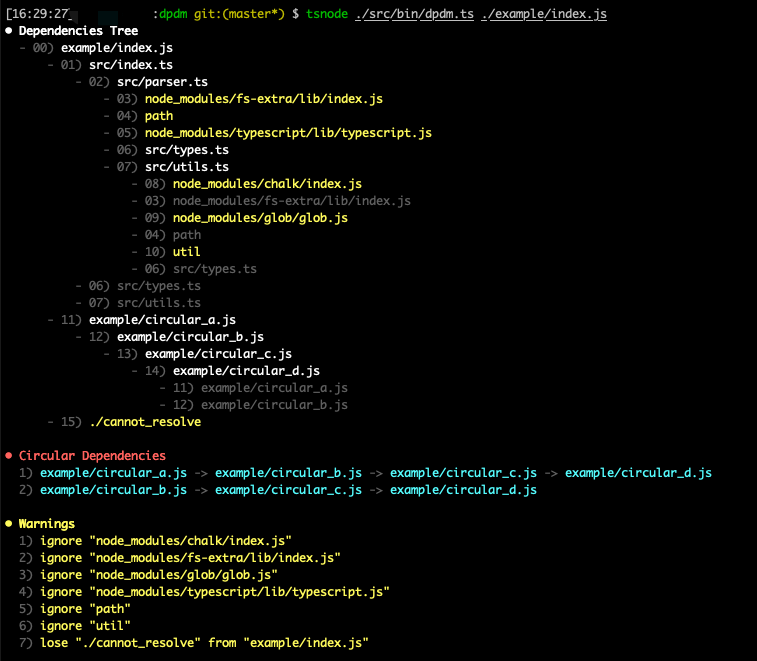
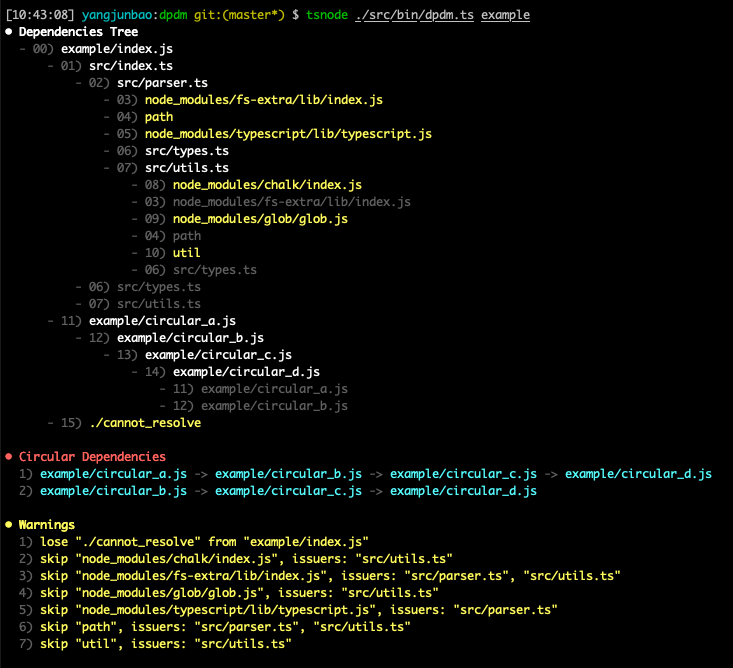
fix(parse): add prefix for entry

Changed region(s): [[0.0, 0.0, 0.9604, 0.9985], [0.7203, 0.8472, 0.8404, 0.8775], [0.6303, 0.9077, 0.7503, 0.938]]

diff --git a/src/bin/dpdm.ts b/src/bin/dpdm.ts
@@ -87,9 +87,11 @@ parseDependencyTree(argv._, options)
       entriesDeep
         .flat()
         .map((name) =>
-          resolve(options.context!, name, options.extensions).then((id) =>
-            id ? path.relative(options.context!, id) : name,
-          ),
+          resolve(
+            options.context!,
+            path.join(options.context!, name),
+            options.extensions,
+          ).then((id) => (id ? path.relative(options.context!, id) : name)),
         ),
     );
     const circulars = parseCircular(tree);

diff --git a/src/parser.ts b/src/parser.ts
@@ -109,7 +109,12 @@ export async function parseDependencyTree(
       glob(entry).then((matches) =>
         Promise.all(
           matches.map((filename) =>
-            parseTreeRecursive(context, filename, fullOptions, output),
+            parseTreeRecursive(
+              context,
+              path.join(context, filename),
+              fullOptions,
+              output,
+            ),
           ),
         ),
       ),

diff --git a/README.md b/README.md
@@ -20,59 +20,64 @@ npm i -g dpdm # or yarn global add dpdm
 dpdm --help
 ```
 
-## Usage
-
-### Library
-
-```typescript jsx
-import { parseDependencyTree, parseCircular } from 'dpdm';
-
-const tree = parseDependencyTree('./index', {
-  /* options */
-});
-const circulars = parseCircular(tree);
-console.log(circulars);
-```
-
-### Command line
+## Usage in line
 
 ```bash
 $ dpdm --help
 
-dpdm.ts [<options>] entry...
+dpdm [<options>] entry...
 
 Options:
-  --version            Show version number  [boolean]
-  --context            the context directory to shorten path, default is process.cwd()  [string]
-  --extensions, --ext  comma separated extensions to resolve  [string] [default: ".js,.jsx,.ts,.tsx,.json"]
-  --include            included filenames regexp in string  [string] [default: "\.[tj]sx?$"]
-  --exclude            excluded filenames regexp in string  [string] [default: "/node_modules/"]
-  --output, -o         output json to file  [string] [default: "dpdm.json"]
-  --tree               print tree to stdout  [boolean] [default: true]
-  --circular           print circular to stdout  [boolean] [default: true]
-  --warning            print warning to stdout  [boolean] [default: true]
-  -h, --help           Show help  [boolean]
+  --version            Show version number                                                                     [boolean]
+  --context            the context directory to shorten path, default is process.cwd()                          [string]
+  --extensions, --ext  comma separated extensions to resolve          [string] [default: ".ts,.tsx,.mjs,.js,.jsx,.json"]
+  --include            included filenames regexp in string                              [string] [default: "\.[tj]sx?$"]
+  --exclude            excluded filenames regexp in string                          [string] [default: "/node_modules/"]
+  --output, -o         output json to file                                                                      [string]
+  --tree               print tree to stdout                                                    [boolean] [default: true]
+  --circular           print circular to stdout                                                [boolean] [default: true]
+  --warning            print warning to stdout                                                 [boolean] [default: true]
+  -h, --help           Show help                                                                               [boolean]
 ```
 
 > The result example:
 > ![](./assets/screenshot.png)
 
+## Usage in module
+
+```typescript jsx
+import { parseDependencyTree, parseCircular, prettyCircular } from 'dpdm';
+
+parseDependencyTree('./index', {
+  /* options, see below */
+}).then((tree) => {
+  const circulars = parseCircular(tree);
+  console.log(prettyCircular(circulars));
+});
+```
+
 ## API
 
-1. `parseDependencyTree(entry, option, output)`: parse dependencies for a single entry
+1. `parseDependencyTree(entries, option, output)`: parse dependencies for glob entries
 
    ```typescript jsx
+   /**
+    * @param entries - the glob entries to match
+    * @param options - the options, see below
+    */
    export declare function parseDependencyTree(
-     entry: string | string[],
+     entries: string | string[],
      options: ParserOptions,
-     output?: DependencyTree,
    ): Promise<DependencyTree>;
 
+   /**
+    * the parse options
+    */
    export interface ParseOptions {
-     context: string;
-     extensions: string[];
-     include: RegExp;
-     exclude: RegExp;
+     context: string; // context to shorten filename,           default is process.cwd()
+     extensions: string[]; // the custom extensions to resolve file, default is [ '.ts', '.tsx', '.mjs', '.js', '.jsx', '.json' ]
+     include: RegExp; // the files to parse match regex,        default is /\.[tj]sx?$/
+     exclude: RegExp; // the files to ignore parse,             default is /\/node_modules\//
    }
 
    export enum DependencyKind {
@@ -86,10 +91,12 @@ Options:
      issuer: string;
      request: string;
      kind: DependencyKind;
-     result: string;
+     id: string | null; // the shortened, resolved filename, if cannot resolve, it will be null
    }
 
-   export type DependencyTree = Record<string, Dependency[]>;
+   // the parse tree result, key is file id, value is its dependencies
+   // if file is ignored, it will be null
+   export type DependencyTree = Record<string, Dependency[] | null>;
    ```
 
 2. `parseCircular(tree)`: parse circulars in dependency tree
